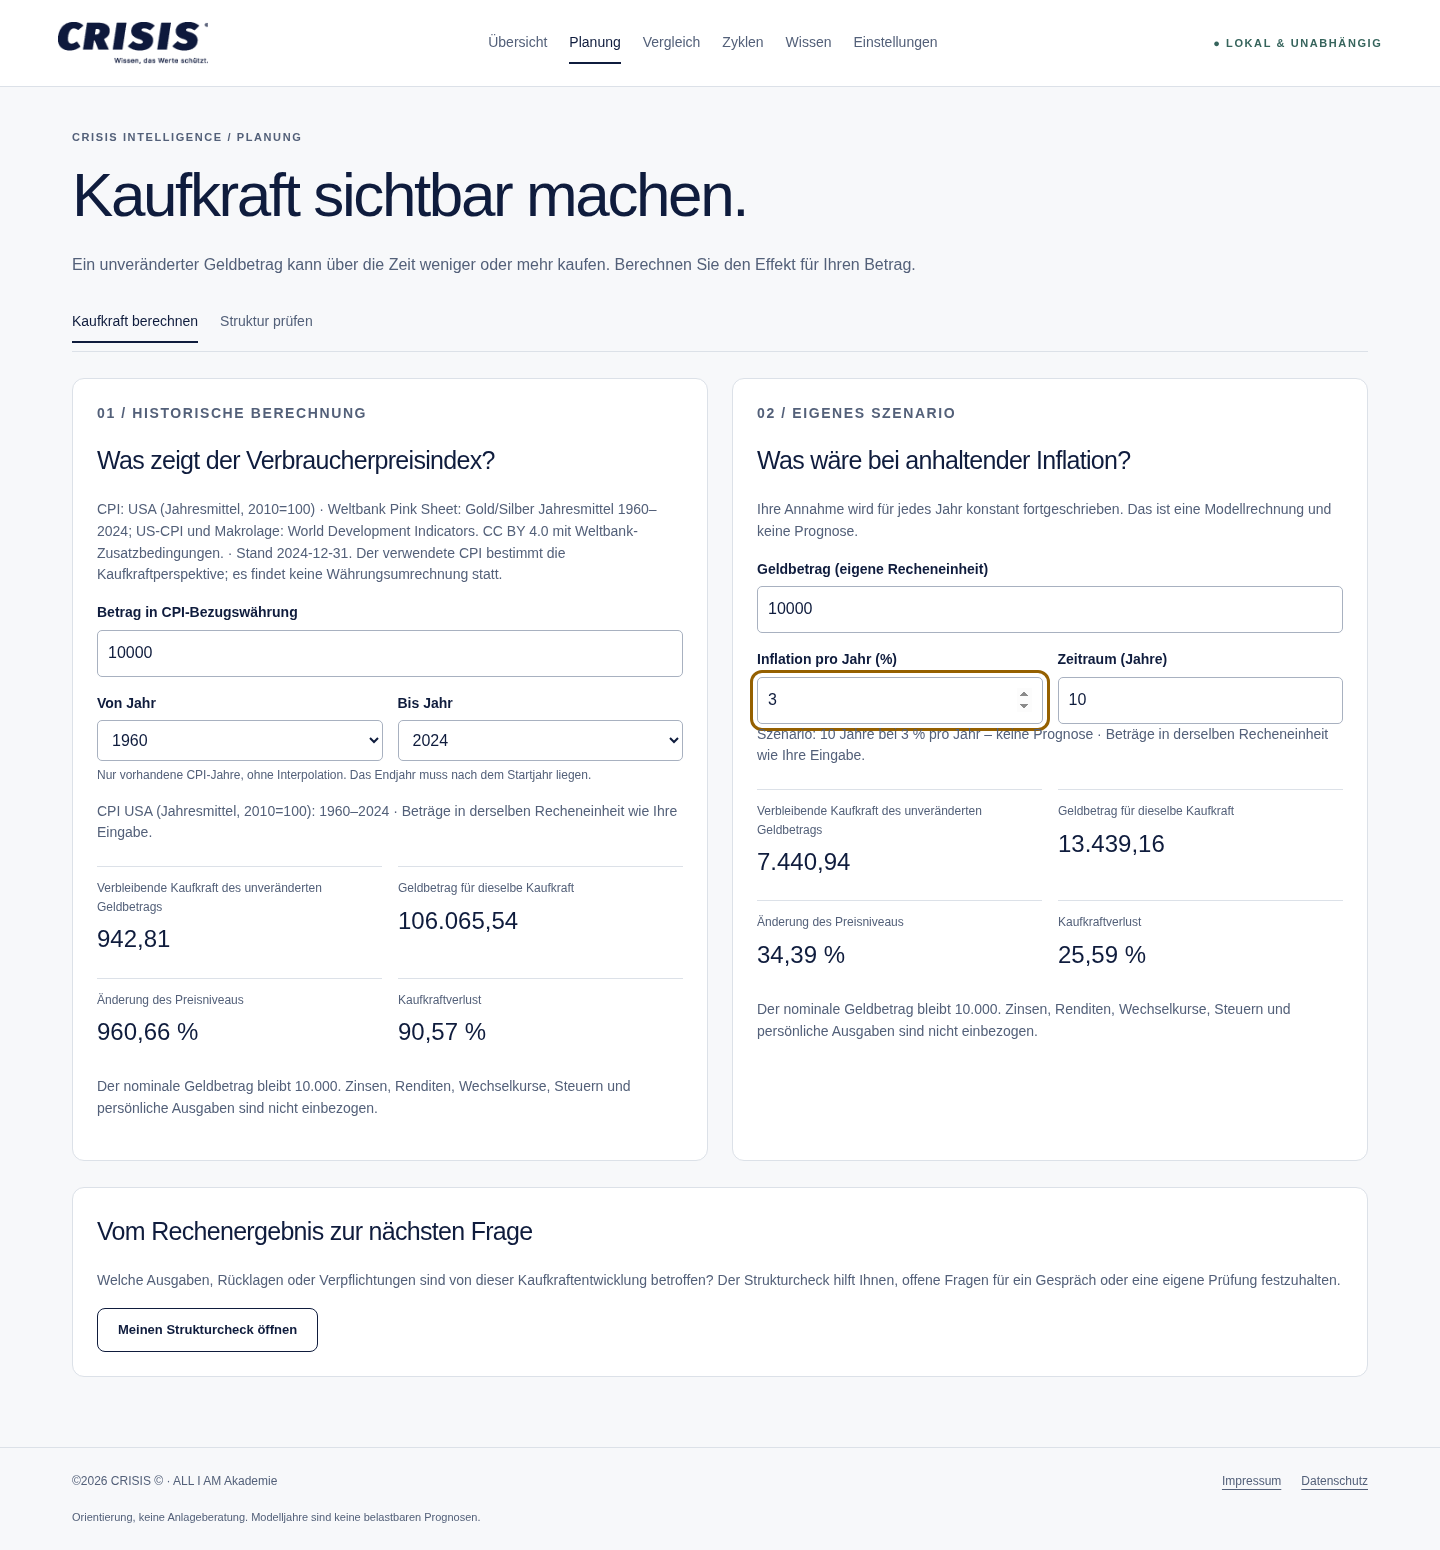
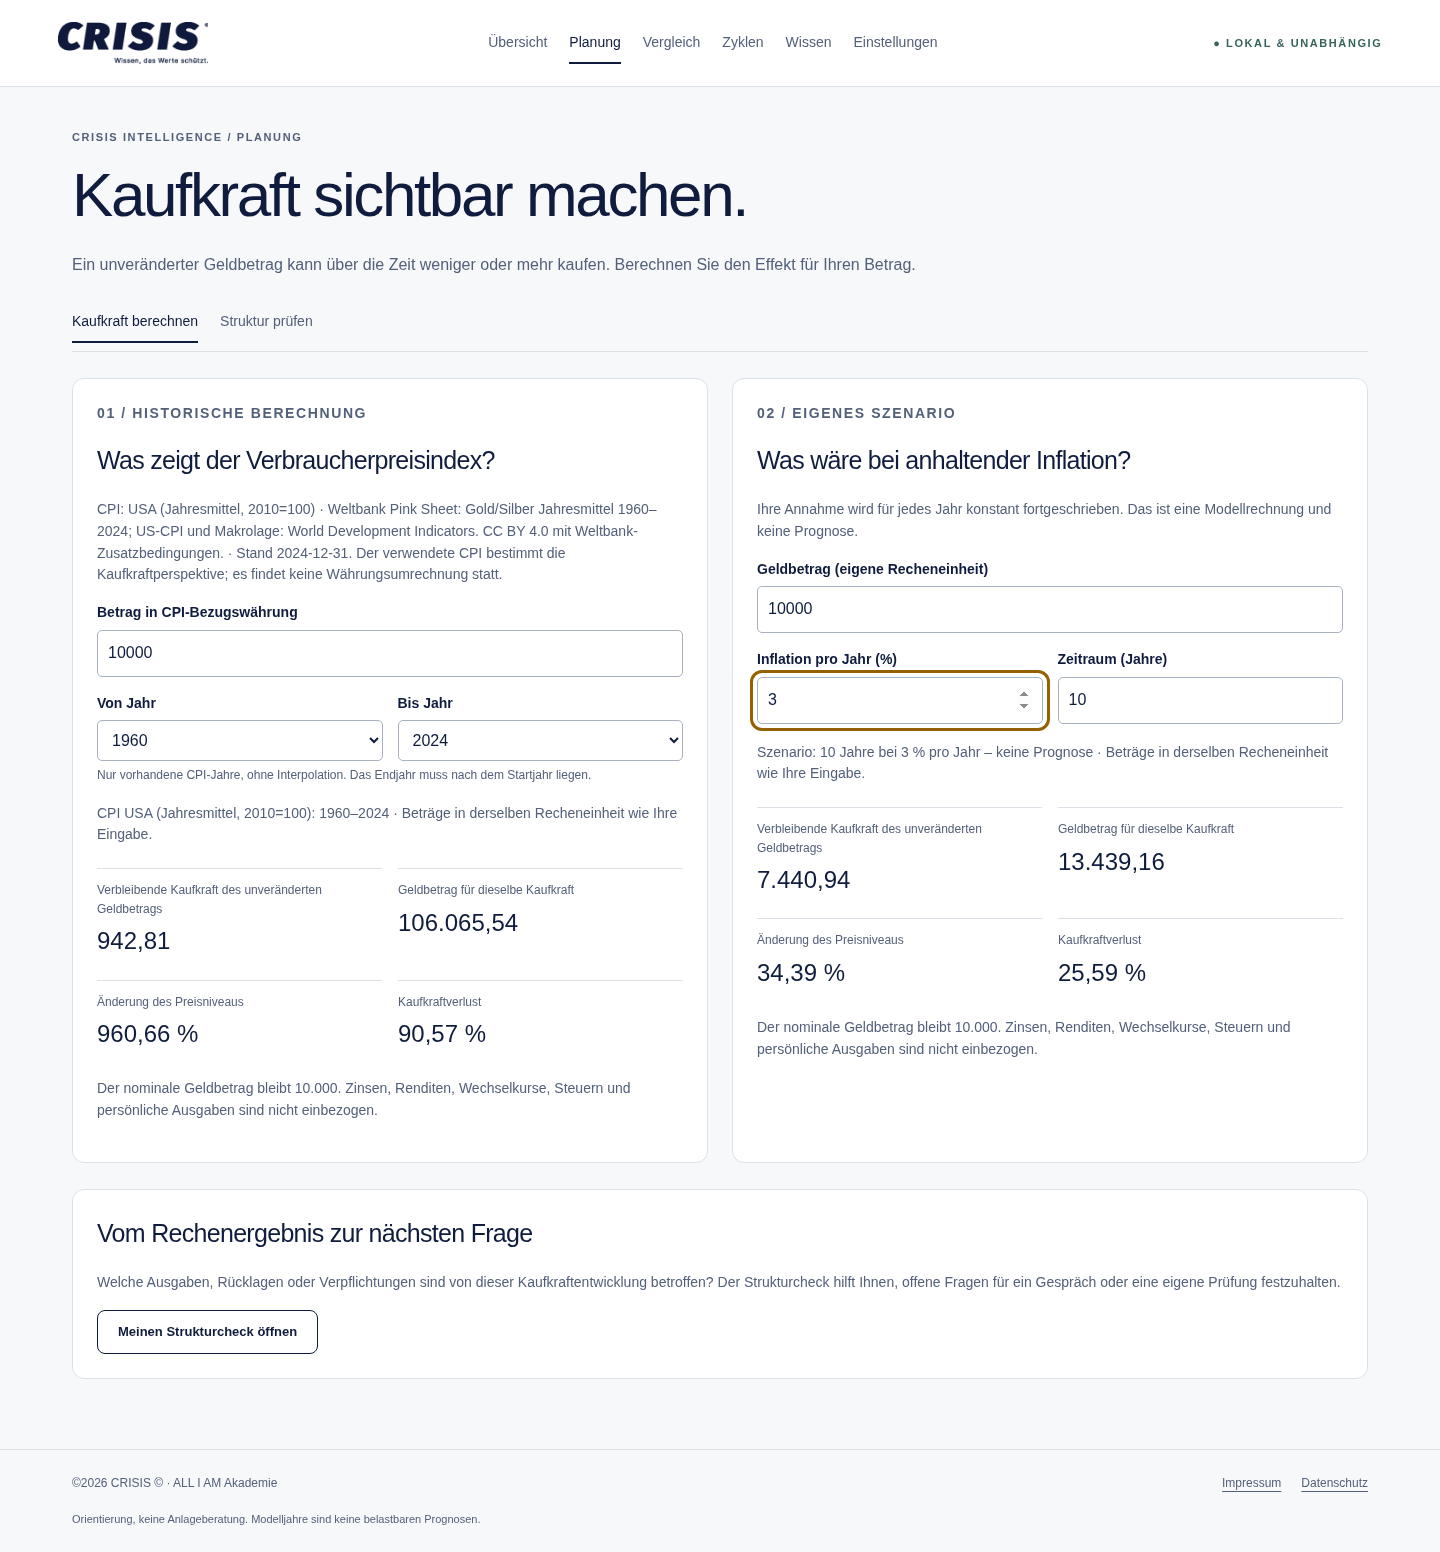
Polish planning navigation and checklist radio controls

diff --git a/web/style.css b/web/style.css
@@ -269,7 +269,7 @@ p {
   font-size: 13px;
   font-weight: 600;
 }
-input:not([type="checkbox"]),
+input:not([type="checkbox"]):not([type="radio"]),
 select {
   width: 100%;
   padding: 10px;
@@ -659,6 +659,7 @@ header nav {
   gap: 16px;
   margin: 22px 0;
 }
+#history-result,#scenario-result{margin-top:18px}
 .result-item {
   border-top: 1px solid var(--line);
   padding-top: 12px;

diff --git a/web/app.js b/web/app.js
@@ -549,7 +549,7 @@ function render() {
     a.removeAttribute("aria-current");
     if (
       a.hash === "#" + route ||
-      (a.hash === "#purchasingpower" && route === "structure")
+      (a.closest('header')&&a.hash === "#purchasingpower" && route === "structure")
     )
       a.setAttribute("aria-current", "page");
   });
